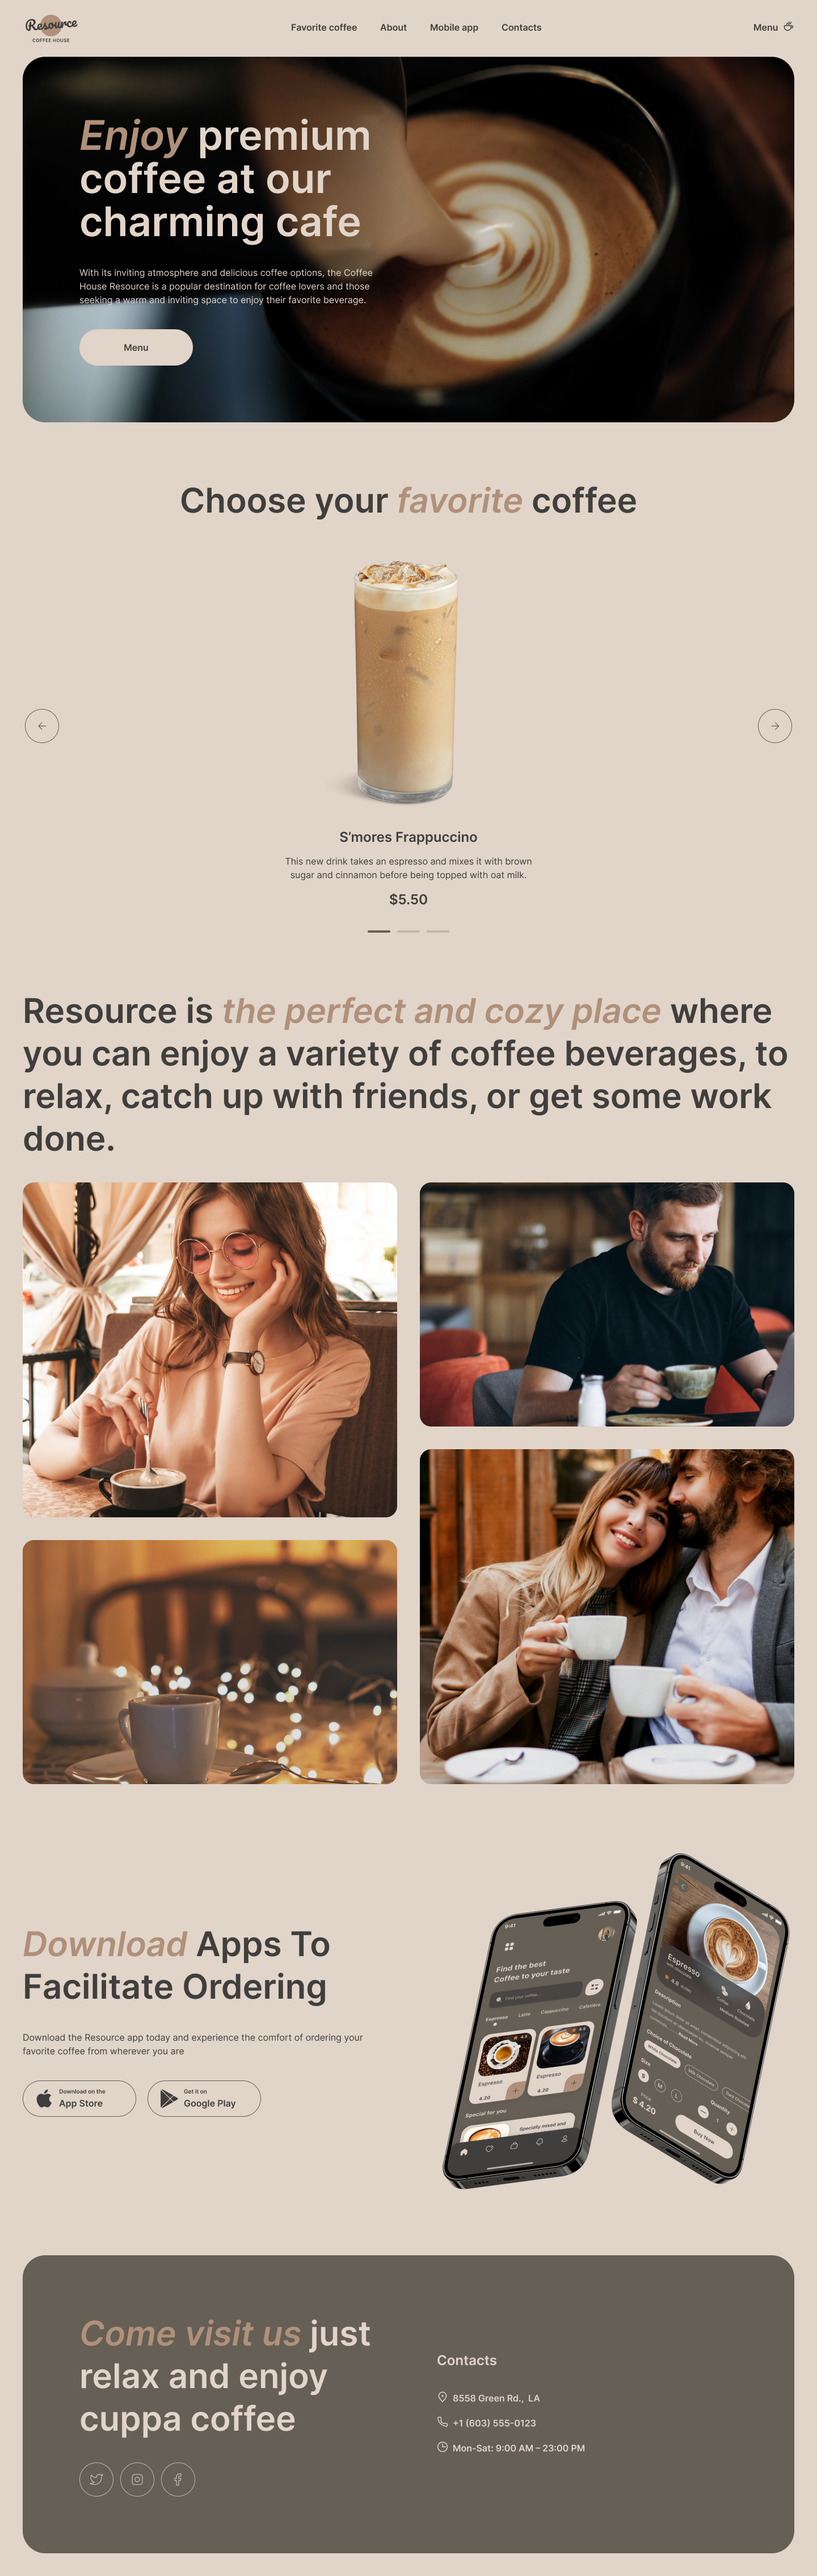
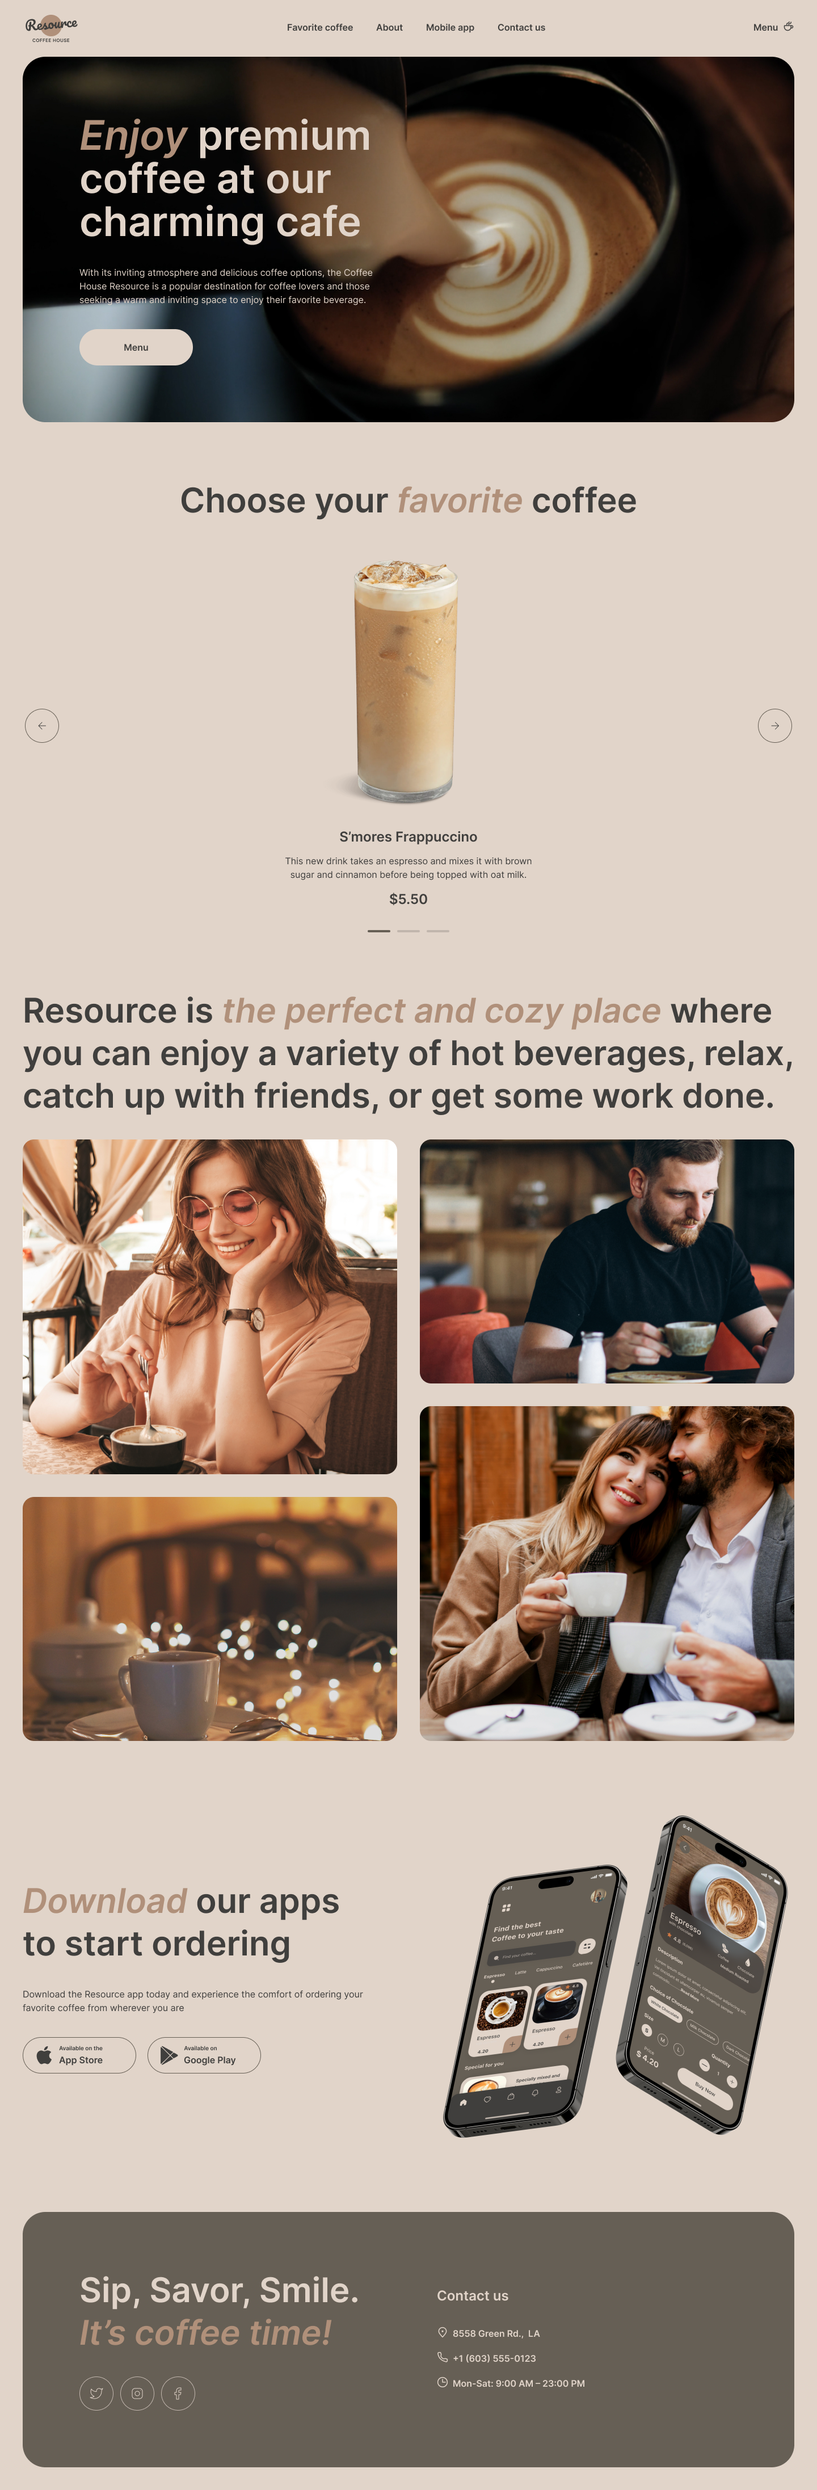
fix: change headline in the footer

diff --git a/menu.html b/menu.html
@@ -194,8 +194,9 @@
     <div class="wrap footer__bg">
       <div class="column footer_content">
         <h2 class="heading-2 heading-1_color">
-          <span class="heading-accent">Come visit us</span>
-           just relax and enjoy cuppa coffee</h2>
+          Sip, Savor, Smile.&nbsp;
+          <span class="heading-accent">It’s coffee time!</span>
+        </h2>
         <div class="footer_icons_wrap">
           <a href="#">
             <div class="footer-ico footer-ico_twit">
